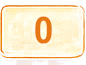
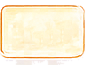
feat: 유리설탕 카드 컨베이어 벨트 배치 + 안내판 R정렬·확대 + btn-0 교체
- '카드를 눌러 제출' 섹션을 상단 보드에서 분리해 배경 컨베이어 벨트 위(약 44vw)에 연보라 반투명 벨트 바로 배치. min()으로 낮은 화면에선 하단 고정해 잘림 방지. 모바일은 컬럼 유지
- 안내판 문구를 R 인디케이터와 같은 가로선으로 정렬(top-[3vw]) + 글자 크기 확대
- btn-0.png(설탕 입력칸) 새 이미지로 교체

Changed region(s): [[0.3721, 0.2462, 0.6279, 0.7077], [0.6279, 0.3692, 0.6512, 0.4]]

diff --git a/components/game/modules/grape-sugar-2/index.tsx b/components/game/modules/grape-sugar-2/index.tsx
@@ -160,7 +160,7 @@ export default function GrapeSugar2Game() {
       {isCandy && (() => {
         const statusText = gs2StatusText(gameData.phase, mySubmitted, oppSubmitted, isSpectator, gameData.extension);
         return statusText ? (
-          <span className="skin-candy-signboard pointer-events-none absolute left-[85.3%] top-[6.4vw] z-30 hidden -translate-x-1/2 lg:block">
+          <span className="skin-candy-signboard pointer-events-none absolute left-[85.3%] top-[3vw] z-30 hidden -translate-x-1/2 lg:block">
             {statusText}
           </span>
         ) : null;
@@ -254,15 +254,15 @@ export default function GrapeSugar2Game() {
             />
           )}
 
-          {/* 카드 핸드 (관전자 아닐 때, input 페이즈) */}
+          {/* 카드 핸드 — 비캔디는 컬럼 안. 캔디는 데스크톱에서 아래 벨트로, 모바일은 컬럼 유지 */}
           {myPlayer && !isSpectator && isInput && (
-            <CardHand
-              hand={myPlayer.hand}
-              onSelectCard={handleSelectCard}
-              canAct={canAct}
-              submitted={mySubmitted}
-              candy={isCandy}
-            />
+            isCandy ? (
+              <div className="lg:hidden">
+                <CardHand hand={myPlayer.hand} onSelectCard={handleSelectCard} canAct={canAct} submitted={mySubmitted} candy />
+              </div>
+            ) : (
+              <CardHand hand={myPlayer.hand} onSelectCard={handleSelectCard} canAct={canAct} submitted={mySubmitted} candy={isCandy} />
+            )
           )}
         </div>
 
@@ -279,6 +279,22 @@ export default function GrapeSugar2Game() {
           />
         </div>
       </div>
+
+      {/* 캔디: 카드 핸드를 배경 컨베이어 벨트 위에 별도 배치 (래퍼 기준 하단 고정) */}
+      {isCandy && myPlayer && !isSpectator && isInput && (
+        <div className="skin-candy-belt-wrap pointer-events-none absolute inset-x-0 top-[min(44vw,calc(100%-13rem))] z-20 hidden justify-center px-6 lg:flex">
+          <div className="skin-candy-belt pointer-events-auto w-full max-w-5xl">
+            <CardHand
+              hand={myPlayer.hand}
+              onSelectCard={handleSelectCard}
+              canAct={canAct}
+              submitted={mySubmitted}
+              candy={isCandy}
+              belt
+            />
+          </div>
+        </div>
+      )}
     </>
   );
 }
@@ -884,18 +900,20 @@ function SugarBar({
 /* ────────── 카드 핸드 ────────── */
 
 function CardHand({
-  hand, onSelectCard, canAct, submitted, candy,
+  hand, onSelectCard, canAct, submitted, candy, belt,
 }: {
   hand: GS2CardId[];
   onSelectCard: (c: GS2CardId) => void;
   canAct: boolean;
   submitted: boolean;
   candy?: boolean;
+  /** 캔디 벨트 모드 — 프로스트 패널 대신 배경 컨베이어 벨트에 얹힌 연보라 반투명 바 */
+  belt?: boolean;
 }) {
   return (
     <div
       className={`relative z-10 p-2.5 lg:p-3 ${
-        candy ? 'skin-candy-panel' : 'rounded-xl border border-gray-200 bg-white'
+        belt ? 'skin-candy-belt-panel' : candy ? 'skin-candy-panel' : 'rounded-xl border border-gray-200 bg-white'
       }`}
     >
       <div className="mb-2 flex items-center justify-between px-0.5">

diff --git a/app/globals.css b/app/globals.css
@@ -2060,12 +2060,25 @@ body {
 .skin-candy-heading { color: var(--cd-ink, #5b54a8); }
 .skin-candy-subtext { color: var(--cd-ink-dim, #9a8fc4); }
 
+/* ── 카드 벨트 — 배경 컨베이어 벨트 위에 얹히는 연보라 반투명 바.
+   위아래 연보라 라인으로 기존 보드와 자연스럽게 분리, 배경 벨트 장식이 비쳐 보임 ── */
+.skin-candy-belt-panel {
+  background: linear-gradient(180deg, rgba(206, 194, 240, 0.34) 0%, rgba(190, 176, 230, 0.46) 100%);
+  border-top: 2px solid rgba(214, 200, 244, 0.75);
+  border-bottom: 2px solid rgba(180, 164, 222, 0.55);
+  border-radius: 0.85rem;
+  box-shadow:
+    0 6px 20px rgba(140, 120, 190, 0.22),
+    inset 0 1px 0 rgba(255, 255, 255, 0.45);
+  backdrop-filter: blur(2px);
+}
+
 /* ── 상태 안내 — 배경 우측 상단 안내판 위에 얹는 문구 (프레임은 배경이 이미 그림) ──
    안내판 실제 위치(이미지 x 73~97%, y 6~15%)에 맞춰 컴포넌트에서 위치 지정 */
 .skin-candy-signboard {
   max-width: 22%;
   text-align: center;
-  font-size: clamp(0.7rem, 1vw, 0.9rem);
+  font-size: clamp(0.82rem, 1.2vw, 1.05rem);
   font-weight: 700;
   line-height: 1.25;
   color: #c2688f; /* 시안 안내 문구 핑크 */
